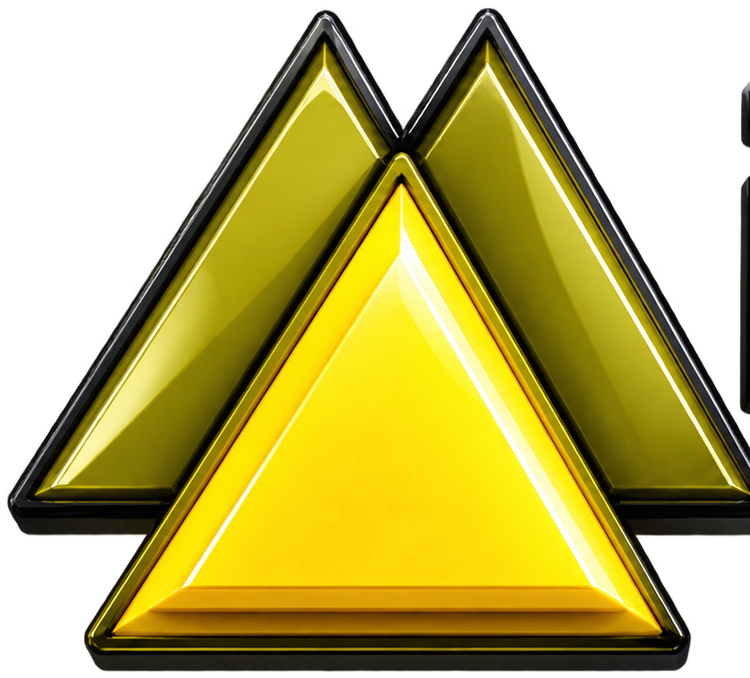
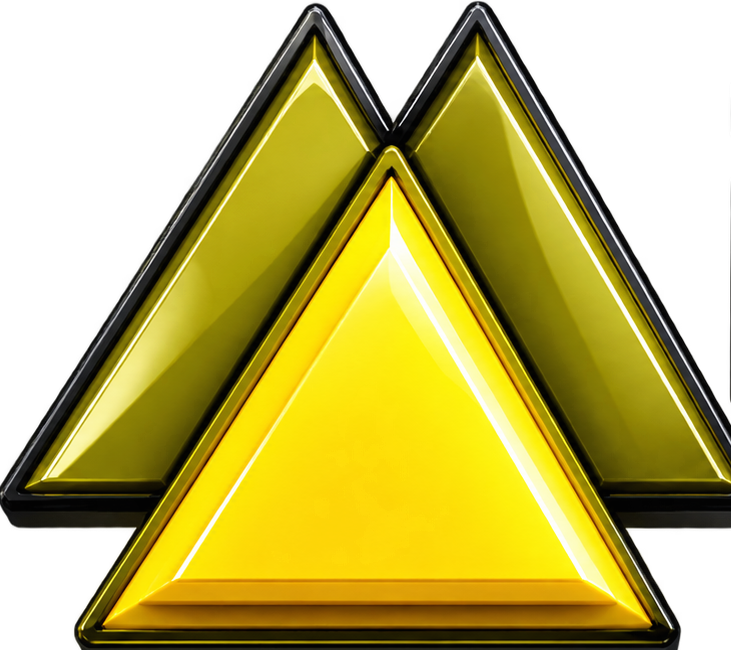
Пирамиды: обрезана темная кромка справа, убран screen-blend

diff --git a/src/components/site/logo-3d.tsx b/src/components/site/logo-3d.tsx
@@ -51,18 +51,18 @@ export function Logo3D({ imgClassName = "h-11" }: { imgClassName?: string }) {
             src={withBasePath("/pyramids.png")}
             alt=""
             aria-hidden
-            width={750}
-            height={678}
+            width={731}
+            height={650}
             priority
             className={`absolute left-0 top-0 ${imgClassName} w-auto translate-y-1 opacity-20 blur-[2px] brightness-0 [transform:translate3d(0,3px,-14px)]`}
           />
           <Image
             src={withBasePath("/pyramids.png")}
             alt="IPvsem.ru — Сообщество Авторов"
-            width={750}
-            height={678}
+            width={731}
+            height={650}
             priority
-            className={`relative ${imgClassName} w-auto mix-blend-screen drop-shadow-[0_3px_8px_rgba(0,0,0,0.35)] [transform:translateZ(22px)]`}
+            className={`relative ${imgClassName} w-auto drop-shadow-[0_3px_8px_rgba(0,0,0,0.35)] [transform:translateZ(22px)]`}
           />
           <span
             aria-hidden
